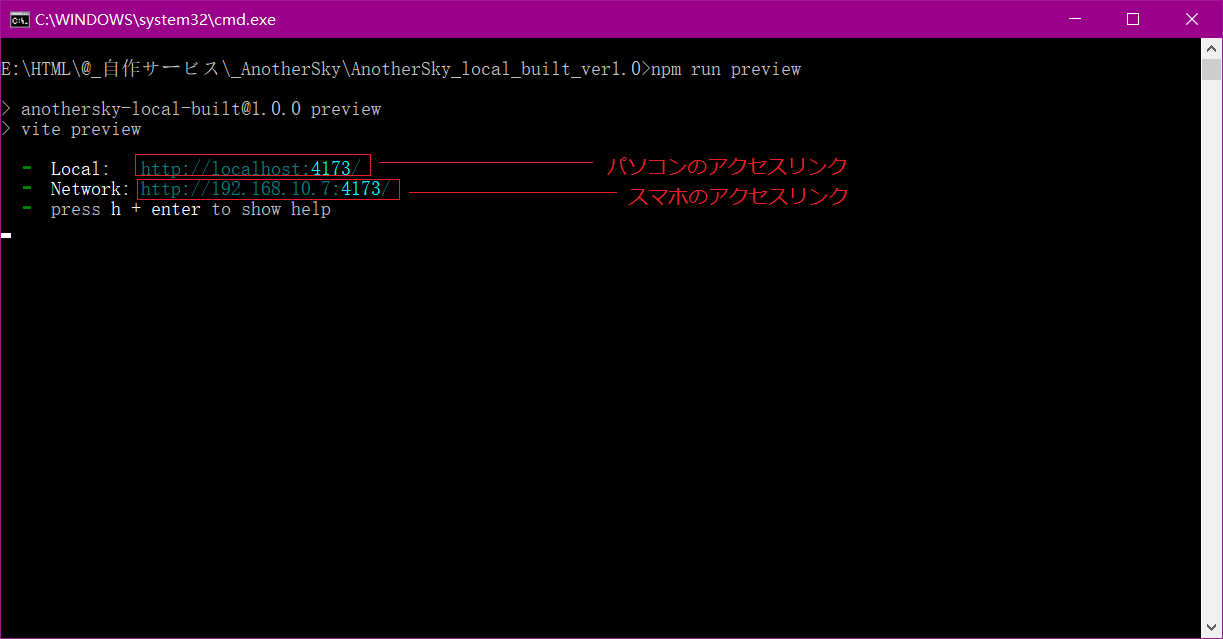
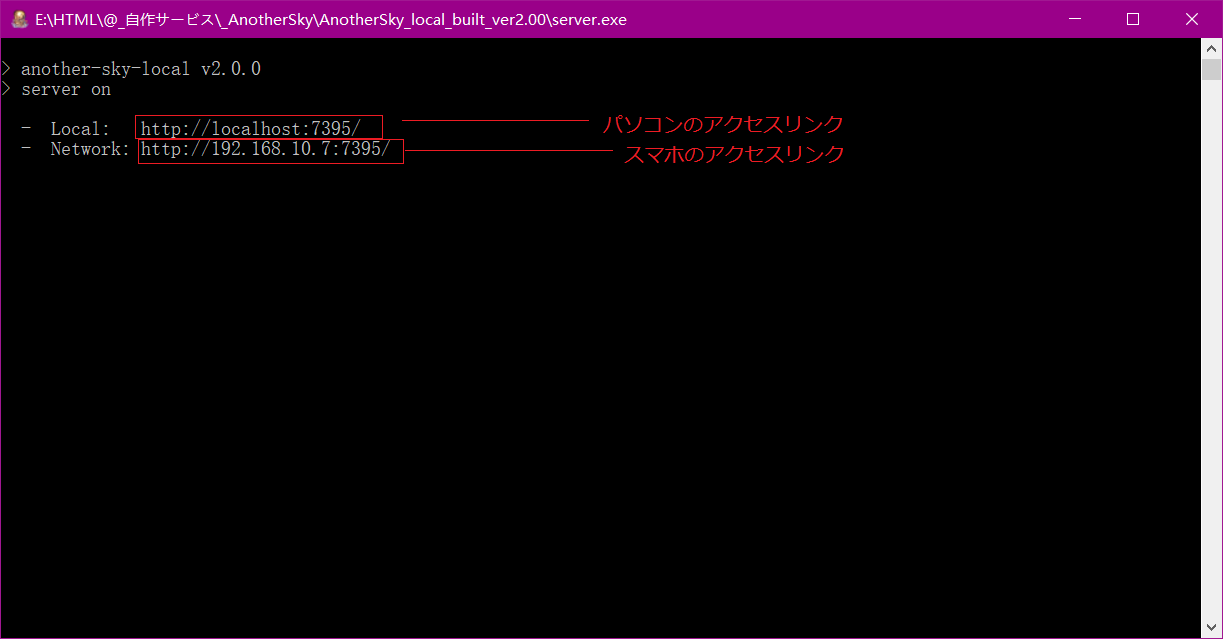
update

diff --git a/README.md b/README.md
@@ -1,28 +1,24 @@
-## ローカル環境で構築する方法
+## Ver 2.0 から環境構築は不要になりました
 
 - 簡単に流れを説明
-1. 自分のパソコンにNodejsをインストール
+1. Releasesから最新バージョンのビルド済みのコードをダウンロード
 
-2. Releasesから最新バージョンのビルド済みのコードをダウンロード
+2. distフォルダの下で自分のほしいメディアファイルを配置
 
-3. _start.batを実行してプログラムを作動テスト(ctrl + cでサーバー終了)
+5. initial.exeを実行してメディア情報を初期化
 
-4. 成功したらdistフォルダの下で自分の欲しいメディアファイルを配置
-
-5. _init.extを実行してメディア情報を初期化 (「本番環境(REAL)」を選択)
-
-6. _start.batを実行してプログラムを作動(ctrl + cでサーバー終了)
+6. server.exeを実行してプログラムを作動(ctrl + cでサーバー終了)
 
 ***
 #### dist フォルダ中身の説明
 ![配置説明](./README/ファイル構造.png)
 
 ***
-#### _init.exe（メディア情報初期化）成功の場合
+#### initial.exe（メディア情報初期化）成功の場合
 ![配置説明](./README/初期化.png)
 
 ***
-#### _start.bat（プログラムを作動）成功の場合
+#### server.exe（プログラムを作動）成功の場合
 ![配置説明](./README/作動成功.png)
 
 ***
